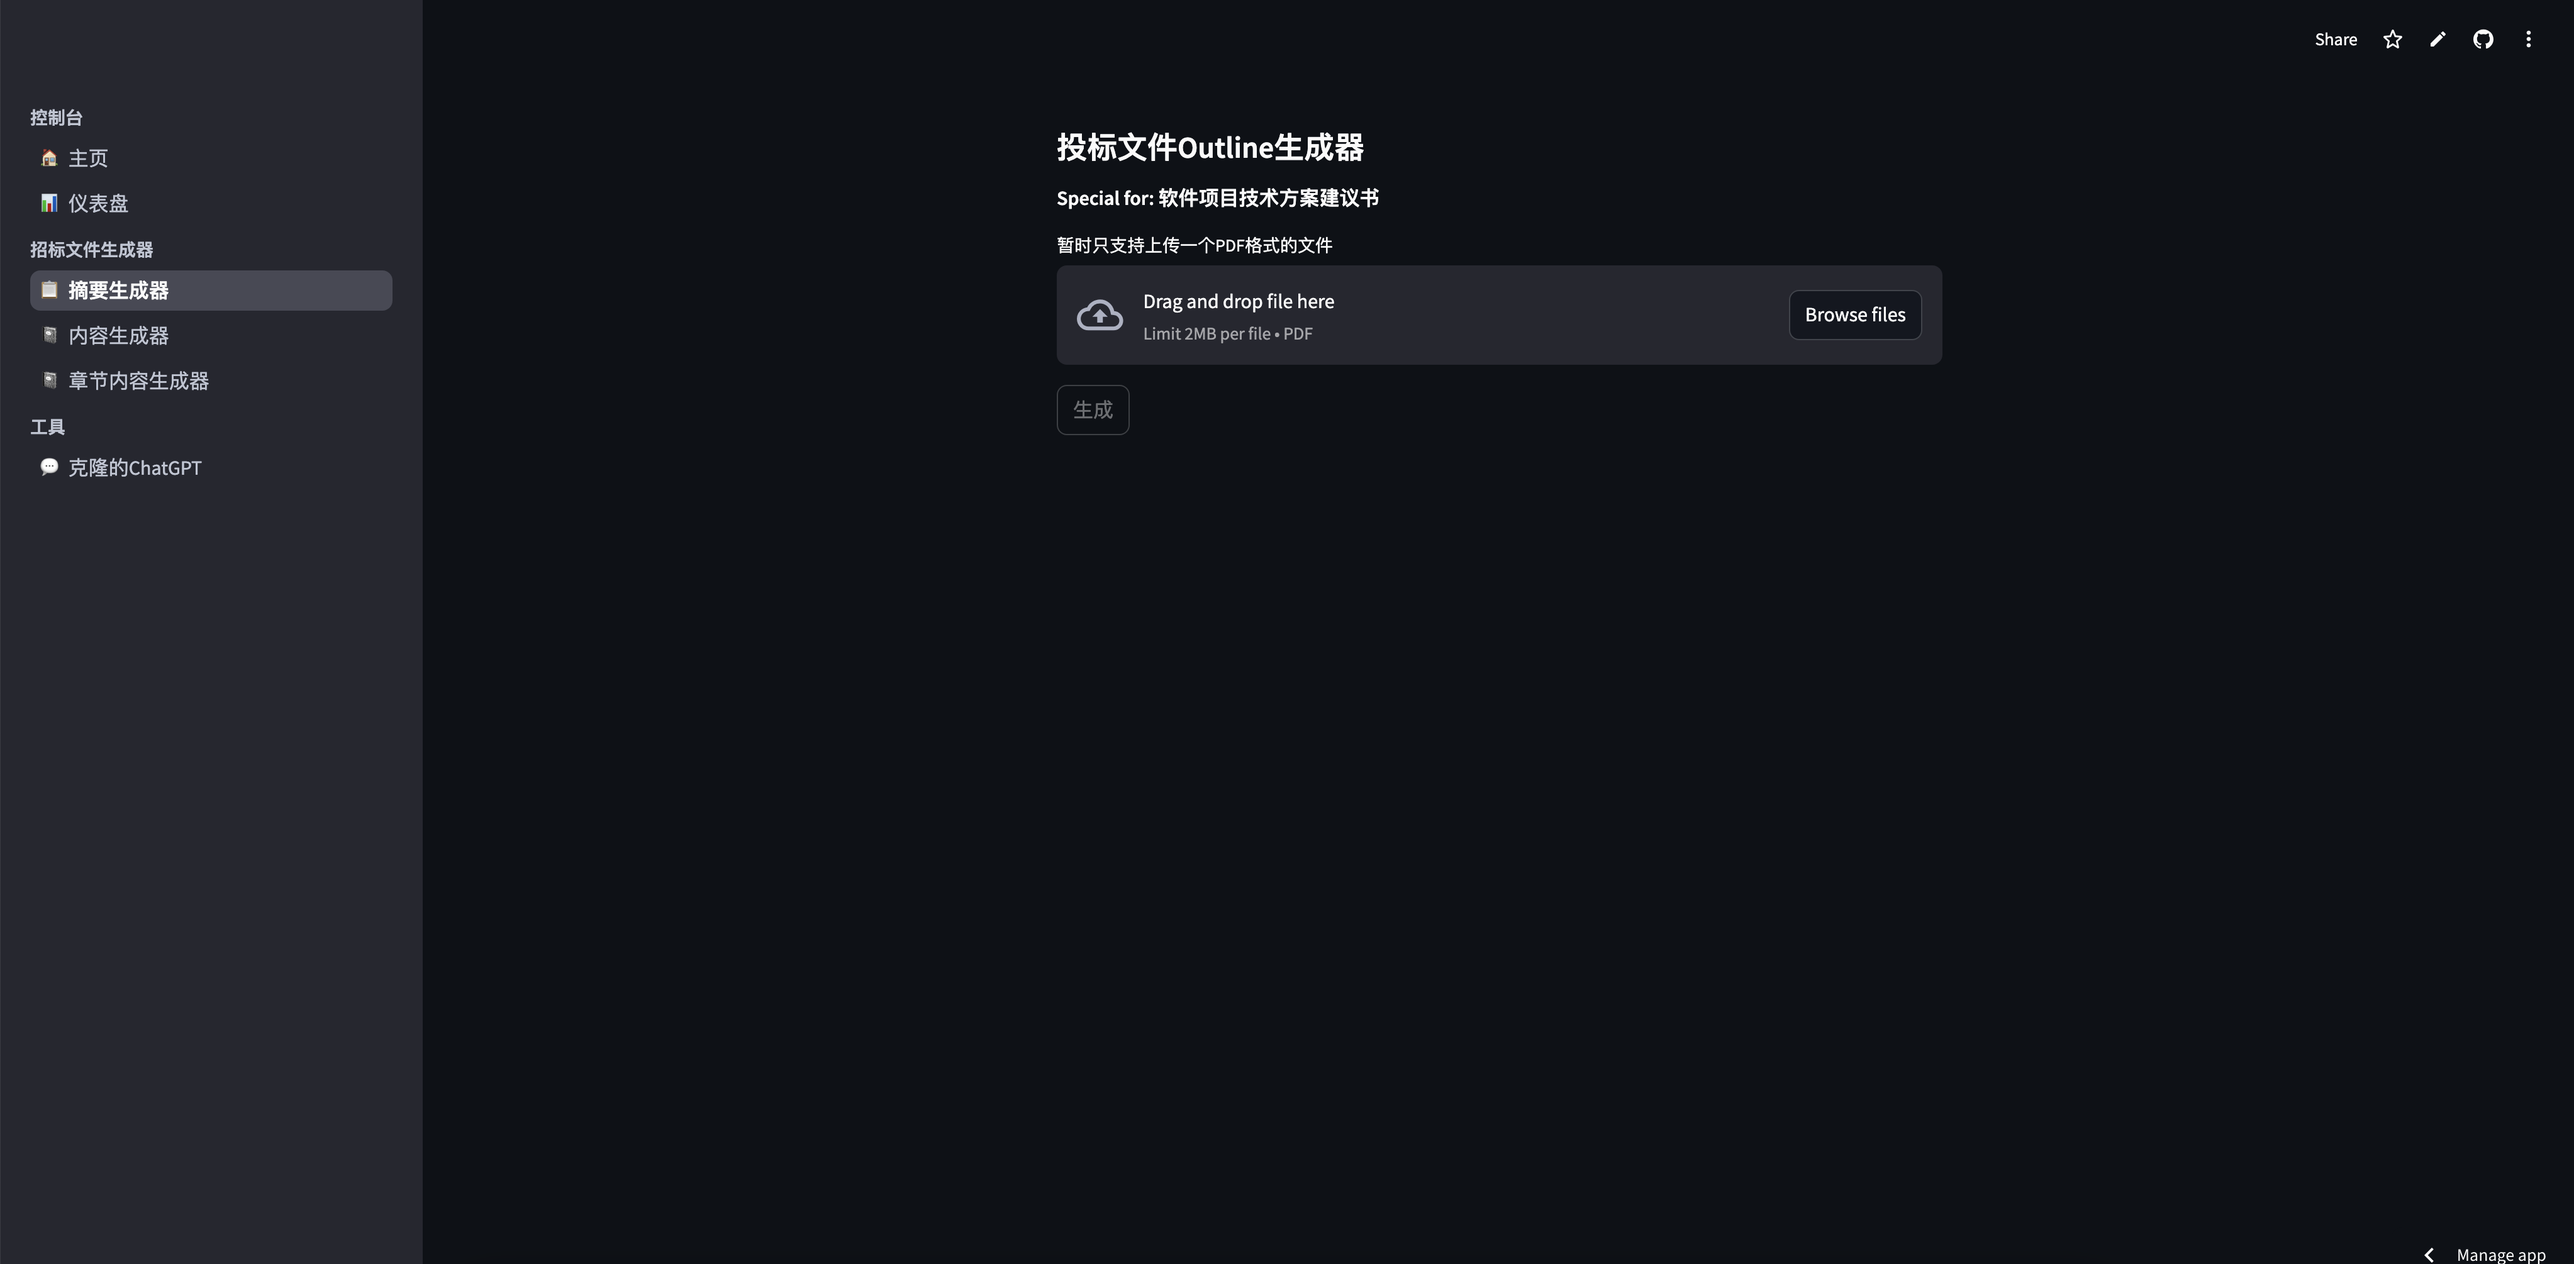
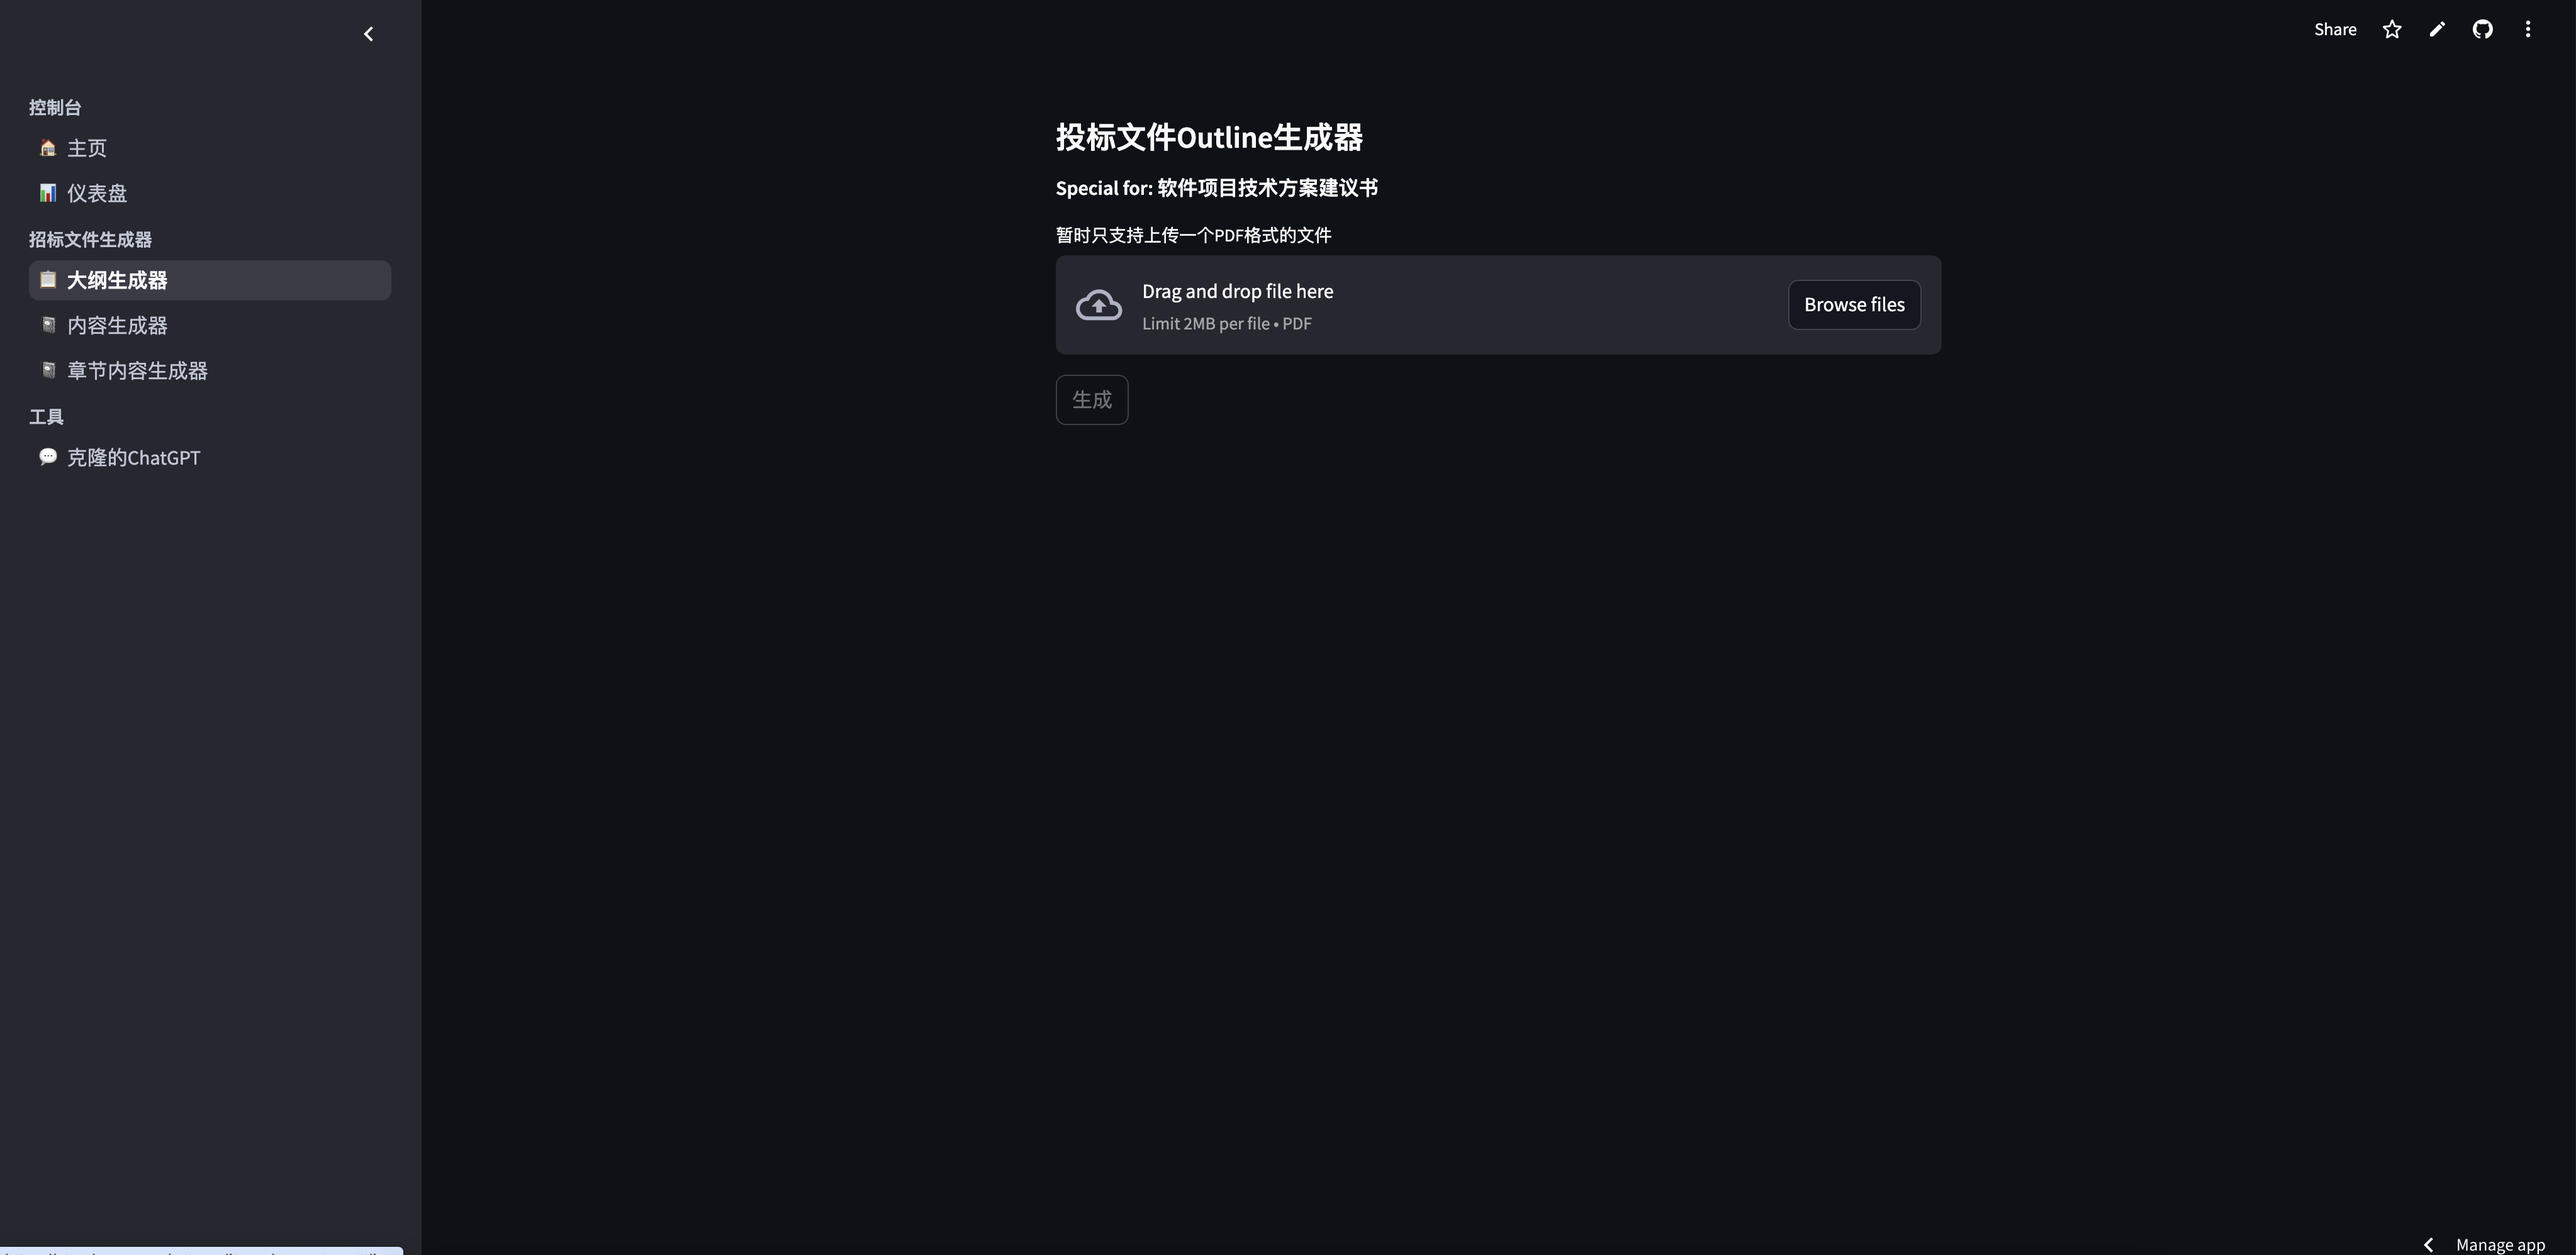
update readme

diff --git a/README.md b/README.md
@@ -1,4 +1,118 @@
-# 使用说明
+# 投标文件生成器的beta版本
 
-## Step 1 生成大纲
+## Step 1 生成Outline
 
+![step1](files/instruction/step1.png)
+
+### 使用说明
+
+- 上传一份招标文件（ [招标文件示例](files/instruction/tender01.pdf) ），暂时只支持PDF格式且一个文件，大小小于2兆。
+- 上传完成，点击生成按键，会根据上传文件内容判断是否为招标文件，如果是则判断是否为软件行业项目，如果是会生成一份Outline。
+
+## Step 2 生成内容
+
+![step2](files/instruction/step2.png)
+
+### 使用说明
+
+- 上传一份招标文件（ [招标文件示例](files/instruction/tender01.pdf) ），暂时只支持PDF格式且一个文件，大小小于2兆。
+- 把生成的或者自己撰写的Outline输入到一个text-area里面。
+- 上传完成，点击生成按键，会根据上传文件内容和Outline生成一份内容，生成后出现下载按键，点击可以下载（每一个章节的字数限制是600）。
+
+## Q&A
+
+**Q:** 为什么会限制文件大小？
+
+**A:** LLM的model使用的是OpenAI的GPT-4o，他的Context window数量是128,000 tokens，在进行文本生成的时候是把全部文本作为参数的，所以大文件会导致token溢出。
+
+**Q:** 为什么不使用RAG来解决文件大小问题呢？
+
+**A:** RAG一般使用矢量数据库，会有针对性的回答用户提出的问题，但是对问题的限制是有的，而恰恰此项目中需要解决的问题RAG无法直接给出答案
+
+比如：
+
+问题1：给我总结一下文件里面说的是什么？
+
+问题2：给我生成一份outline？
+
+以上两个问题，通过RAG，LLM的回答一般都会是“我不知道”
+
+**Q:** 该如何改进RAG？
+
+**A**: 使用问题链Chain of Question，通过一个个简单问题得出生成Outline所需的内容。**引出的问题就是如何生成有针对性的有逻辑联系的问题列表？**
+
+**Q:** 为什么不用LangChain中的load_summarize_chain来处理大文件，获取其摘要，然后使用摘要在生成outline呢？
+
+**A:** load_summarize_chain是 LangChain 框架中用于文本摘要的一个方法，其中chain_type参数(stuff、map_reduce和refine)决定了摘要链的工作方式。
+
+- stuff 会将所有输入文档的内容直接加载到内存中，然后一次性传递给语言模型，让模型生成摘要。
+- map_reduce 将文档分成多个小块，先对每个小块生成局部摘要（map 阶段），然后对这些局部摘要再次生成全局摘要（reduce 阶段）。
+- refine 使用增量式的方法生成摘要。它会先为第一块文档生成初步摘要，然后依次加入后续文档，根据新的内容逐步修改或改进摘要。
+
+使用stuff依然会有token溢出的问题；而使用map_reduce或者refine会消耗大量的时间资源和计算资源（多次调用模型）。
+
+**Q:** 为什么限制600字？
+
+**A:** 对于Outline的每个章节来说，字数的权重是不一样的。如果把字数提高如2000的话，会出现一个问题就是，LLM会把本应属于其他章节的内容写到当下的章节中，会出现比较严重的overlap。
+
+**Q:** 该如何解决600字的限制呢？
+
+**A:** 现阶段提供的一个章节内容生产器。
+
+![extrastep](files/instruction/extrastep.png)
+
+- 上传一份招标文件（ [招标文件示例](files/instruction/tender01.pdf) ），暂时只支持PDF格式且一个文件，大小小于2兆。
+
+- 输入一个章节最小的字数。
+
+  如：1000
+
+- 输入项目名称。
+
+  如：中国移动通信集团黑龙江有限公司-电子邮件系统-技术方案建议书。
+
+- 输入章节标题，标题需要包含其父标题。
+
+  如：7.邮件系统方案设计-总体架构设计-两层部署逻辑架构；8.邮件系统方案设计-总体架构设计-Messaging Server各模块逻辑架构；9.邮件系统方案设计-总体架构设计-物理部署结构-邮件网关。
+
+- 点击生成，会生成一份只包含特定章节的内容。
+
+**Q:** 为什么只有图片描述，而没有实际的图片。
+
+**A:** 计划图片是由AI自动生成的，我使用的是Openai的dall-e-3，但是生成的效果我个人判断是无法再标书中使用的。
+
+如：邮件服务器集群部署图：该图展示了多台邮件服务器通过负载均衡器连接的结构。每台服务器都配置有冗余硬件，确保高可用性。负载均衡器负责将用户请求分配到不同的服务器上，以实现负载均衡。
+
+生成的图为：
+
+![t2i](files/instruction/t2i.png)
+
+## 计费统计
+
+LLM的model使用的是GPT-4o，一般一次生成内容需要调用8到12次（根据章节个数不同），每次会调用web search大约为6到8次（根据章节个数不同）。
+
+生产10000字的内容每次需要大约0.3到0.6美金。
+
+## 后续阶段
+
+- 建立RAG的问题链Chain of Question，用以完成Outline的生成。
+- 问题链需要领域知识，严重AI是否能独立完成。
+- 精细化Outline，根据实际需求生成深层的Outline。
+- 获取一个image search engine AI，用以完成文章中图片。
+- 完成review节点，对生成的文章进行review。
+- 建立知识库，用于RAG的问答。
+- 如果问题链问题解决，使用问题链生成实际文章内容，用以减少现阶段生成内容和后续review的资源消耗。
+
+## Appendix
+
+### GPT-4o收费标准
+
+（https://openai.com/api/pricing/）
+
+![gpt-4o](files/instruction/gpt-4o.png)
+
+### TavilyAI收费标准
+
+（https://tavily.com/#pricing）
+
+![tavilyai](files/instruction/tavilyai.png)
